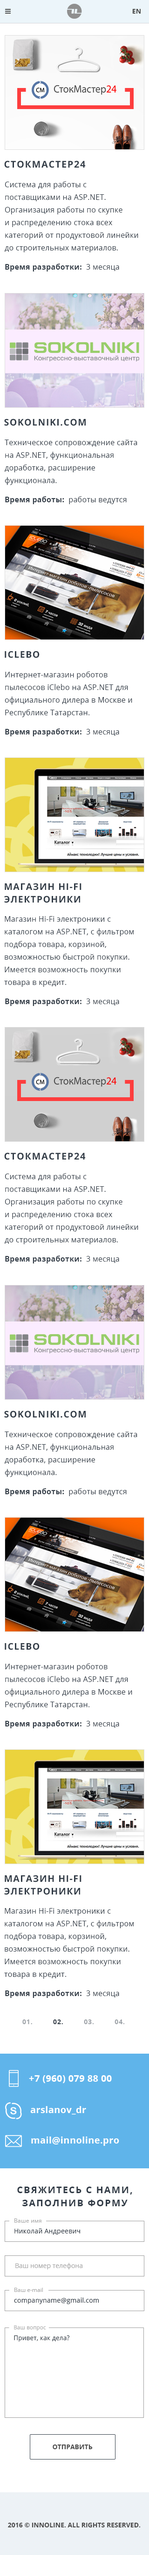
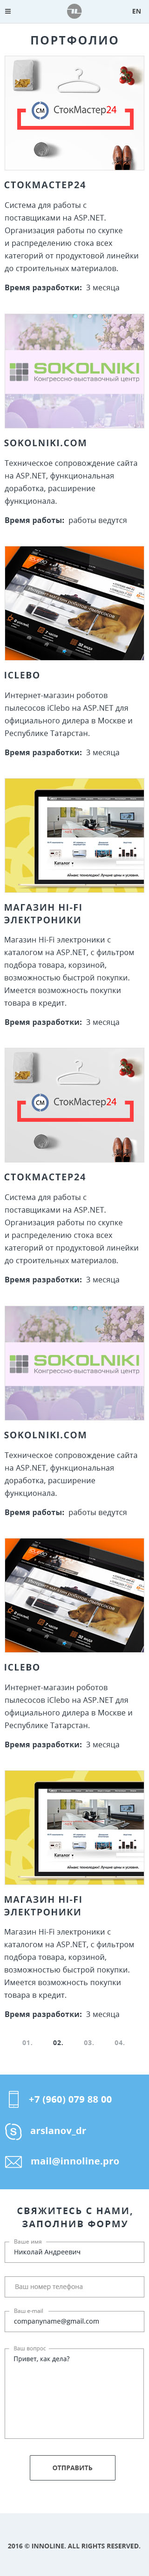
pixel мобильных версий

diff --git a/portfolio.html b/portfolio.html
@@ -4,6 +4,26 @@
     <meta charset="UTF-8">
     <meta name="viewport" content="width=device-width, initial-scale=1.0">
     <link href="css/style.css" rel="stylesheet">
+    <link href="../node_modules/pixel-glass/styles.css" rel="stylesheet">
+    <script src="../node_modules/pixel-glass/script.js"></script>
+    <style>
+  HTML {
+    background: url('img/Portfolio_mobile.jpg' ) 50% 0 no-repeat;
+  }
+/*
+  @media (min-width: 800px) {
+    HTML {
+      background-image: url('img/page-tablet.jpg' );
+    }
+  }
+
+  @media (min-width: 1200px) {
+    HTML {
+      background-image: url('img/page-desktop.jpg' );
+    }
+  }
+*/
+    </style>
     <title>Innoline</title>
   </head>
   <body>
@@ -360,7 +380,7 @@
     </main>
 
     <footer>
-      <section class="contacts  contacts--portfolio">
+      <section class="contacts  contacts--portfolio-margin">
         <div class="contacts__wrapper">
           <h2 class="contacts__title">Наши контакты</h2>
           <ul class="contacts__list">
@@ -381,21 +401,21 @@
         <p class="feedback__title">Свяжитесь с нами, заполнив форму</p>
         <form action="#" method="get" class="feedback__form">
           <div class="feedback__form-inner">
-            <fieldset>
+            <fieldset class="feedback__form-title">
               <legend>Ваше имя</legend>
               <input type="text" name="name" id="field-name" placeholder="Николай Андреевич">
             </fieldset>
-            <fieldset class="feedback__form-tel">
+            <fieldset class="feedback__form-title  feedback__form-title--tel">
               <legend for="field-tel">Ваш номер телефона</legend>
               <input type="tel" name="tel" id="field-tel" placeholder="Ваш номер телефона">
             </fieldset>
-            <fieldset>
+            <fieldset class="feedback__form-title">
               <legend>Ваш e-mail</legend>
               <input type="email" name="email" id="field-email" placeholder="companyname@gmail.com">
             </fieldset>
           </div>
           <div class="feedback__form-inner">
-            <fieldset>
+            <fieldset class="feedback__form-title">
               <legend>Ваш вопрос</legend>
               <textarea name="question" id="fiekd-question" placeholder="Привет, как дела?"></textarea>
             </fieldset>

diff --git a/sass/blocks/work.scss b/sass/blocks/work.scss
@@ -1,5 +1,5 @@
 .work {
-  padding: 35px 0 0;
+  padding: 32px 0 0;
 }
 
 .work__header {
@@ -19,14 +19,15 @@
 
 .work__logo {
   width: 100%;
-  padding: 15px 0;
+  padding: 17px 0;
   background: #ffffff;
 }
 
 .work__logo img {
   display: block;
   width: 194px;
-  margin: 0 auto;
+  margin: 0;
+  margin-left: 57px;
 }
 
 .work__header-desc {
@@ -40,7 +41,7 @@
 
 .work__link {
   display: block;
-  margin-top: 10px;
+  margin-top: 9px;
   @include font-style(16px, 21px, 700, inherit);
 }
 
@@ -50,12 +51,21 @@
     text-align: center;
   }
 
+  .work__logo img {
+    margin: 0 auto;
+  }
+
   .work__link {
     text-align: center;
   }
 }
 
 @media ($tablet-widths) {
+
+  .work {
+    padding-top: 21px;
+  }
+
   .work__inner {
     display: flex;
     padding: 0 20px;
@@ -64,7 +74,7 @@
 
   .work__title {
     width: 100%;
-    padding-bottom: 40px;
+    padding-bottom: 34px;
     font-size: 35px;
     line-height: 1.2;
   }
@@ -72,12 +82,12 @@
   .work__logo {
     width: 225px;
     margin: 0;
-    margin-right: 37px;
-    padding-top: 20px;
+    margin-right: 42px;
+    padding-top: 27px;
   }
 
   .work__header-desc {
-    padding: 20px 0 15px;
+    padding: 22px 0 18px;
     width: 287px;
   }
 
@@ -87,6 +97,7 @@
   }
 
   .work__link {
+    margin-top: 8px;
     text-align: left;
   }
 }

diff --git a/project.html b/project.html
@@ -4,6 +4,26 @@
     <meta charset="UTF-8">
     <meta name="viewport" content="width=device-width, initial-scale=1.0">
     <link href="css/style.css" rel="stylesheet">
+    <link href="../node_modules/pixel-glass/styles.css" rel="stylesheet">
+    <script src="../node_modules/pixel-glass/script.js"></script>
+    <style>
+  HTML {
+    background: url('img/Portfolio_2_mobile.jpg' ) 50% 0 no-repeat;
+  }
+
+  @media (min-width: 768px) {
+    HTML {
+      background-image: url('img/Portfolio_2_tablet.jpg' );
+    }
+  }
+/*
+  @media (min-width: 1200px) {
+    HTML {
+      background-image: url('img/page-desktop.jpg' );
+    }
+  }
+*/
+    </style>
     <title>Innoline</title>
   </head>
   <body>
@@ -129,5 +149,6 @@
       </div>
     </footer>
 
+    <script src="../js/script.js"></script>
   </body>
 </html>

diff --git a/sass/blocks/projects.scss b/sass/blocks/projects.scss
@@ -12,12 +12,16 @@
   list-style: none;
 }
 
+.projects__item:not(:first-child) {
+  margin-top: 39px;
+}
+
 .projects__item:nth-last-child(-n+8) {
   display: none;
 }
 
 .projects__foto {
-  margin-top: 20px;
+  margin-top: 18px;
 }
 
 .projects__foto img {
@@ -25,7 +29,7 @@
 }
 
 .projects__desc {
-  margin-top: 20px;
+  margin-top: 15px;
 }
 
 .projects__desc a {
@@ -45,17 +49,20 @@
 .projects__item-caption {
   margin: 0;
   @include font-style(20px, 31px, 700, inherit);
+  letter-spacing: 0.1em;
   text-transform: uppercase;
 }
 
 .projects__text {
   margin: 0;
-  margin-top: 20px;
+  margin-top: 15px;
+  padding-right: 20px;
   @include font-style(16px, 27px, 400, inherit);
 }
 
 .projects__time {
-  margin-top: 20px;
+  margin: 0;
+  margin-top: 15px;
   @include font-style(16px, 27px, 400, inherit);
 }
 

diff --git a/sass/blocks/desc-work.scss b/sass/blocks/desc-work.scss
@@ -1,6 +1,6 @@
 .desc-work {
   @include container;
-  padding-top: 35px;
+  padding-top: 31px;
   @include font-style(16px, 29px, 400, inherit);
 }
 
@@ -10,7 +10,7 @@
 }
 
 .desc-work__foto {
-  margin: 35px 0;
+  margin: 33px 0 23px;
 }
 
 @media ($mobile-widths-fluid) {
@@ -27,7 +27,16 @@
 @media ($tablet-widths) {
   .desc-work {
     @include container;
-    padding-top: 45px;
+    padding-top: 42px;
+  }
+
+  .desc-work__foto {
+    margin: 34px 0 30px;
+  }
+
+  .desc-work__stack b {
+    display: block;
+    width: 100%;
   }
 }
 

diff --git a/sass/blocks/contacts.scss b/sass/blocks/contacts.scss
@@ -4,6 +4,10 @@
   padding: 35px 0 12px;
   color: #ffffff;
   background-color: $bg-blue;
+
+  &--portfolio-margin {
+    margin-top: 59px;
+  }
 }
 
 .contacts__wrapper {
@@ -67,7 +71,7 @@
 @media ($tablet-widths) {
   .contacts {
     margin-top: 50px;
-    padding: 35px 0;
+    padding: 37px 0;
   }
 
   .contacts__wrapper {
@@ -86,7 +90,11 @@
   }
 
   .contacts__link {
-    padding-left: 50px;
+    padding-left: 29px;
+
+    &--icon-tel {
+      background-position-x: 0;
+    }
   }
 }
 

diff --git a/sass/blocks/pagination.scss b/sass/blocks/pagination.scss
@@ -1,9 +1,10 @@
 
 .pagination {
-  margin-top: 40px;
+  margin-top: 31px;
 
   &--margin {
     margin-bottom: 55px;
+    margin-top: 42px;
   }
 }
 
@@ -16,7 +17,7 @@
 }
 
 .pagination__item {
-  margin-right: auto;
+  margin-right: 45px;
 
   &--prev,
   &--next {
@@ -31,6 +32,13 @@
 
   &--active {
     color: $color-text;
+  }
+}
+
+@media ($tablet-widths) {
+  .pagination--margin {
+    margin-bottom: 94px;
+    margin-top: 58px;
   }
 }
 

diff --git a/js/script.js b/js/script.js
@@ -4,7 +4,7 @@ var navMain = document.querySelector('.main-nav');
 var navToggle = document.querySelector('.main-nav__toggle');
 var bgPosition = document.querySelector('.page-current');
 
-bgPosition.classList.remove('page-current--nojs');
+// bgPosition.classList.remove('page-current--nojs');
 navMain.classList.remove('main-nav--nojs');
 
 navToggle.addEventListener('click', function() {

diff --git a/sass/blocks/logo.scss b/sass/blocks/logo.scss
@@ -26,7 +26,7 @@
 @media ($tablet-widths) {
   .logo {
     width: 110px;
-    margin-left: 200px;
+    margin-left: 268px;
   }
 }
 

diff --git a/sass/blocks/copyright.scss b/sass/blocks/copyright.scss
@@ -1,5 +1,5 @@
 .copyright {
-  padding: 54px 0;
+  padding: 53px 0 49px;
   background: #edf2f6;
 }
 
